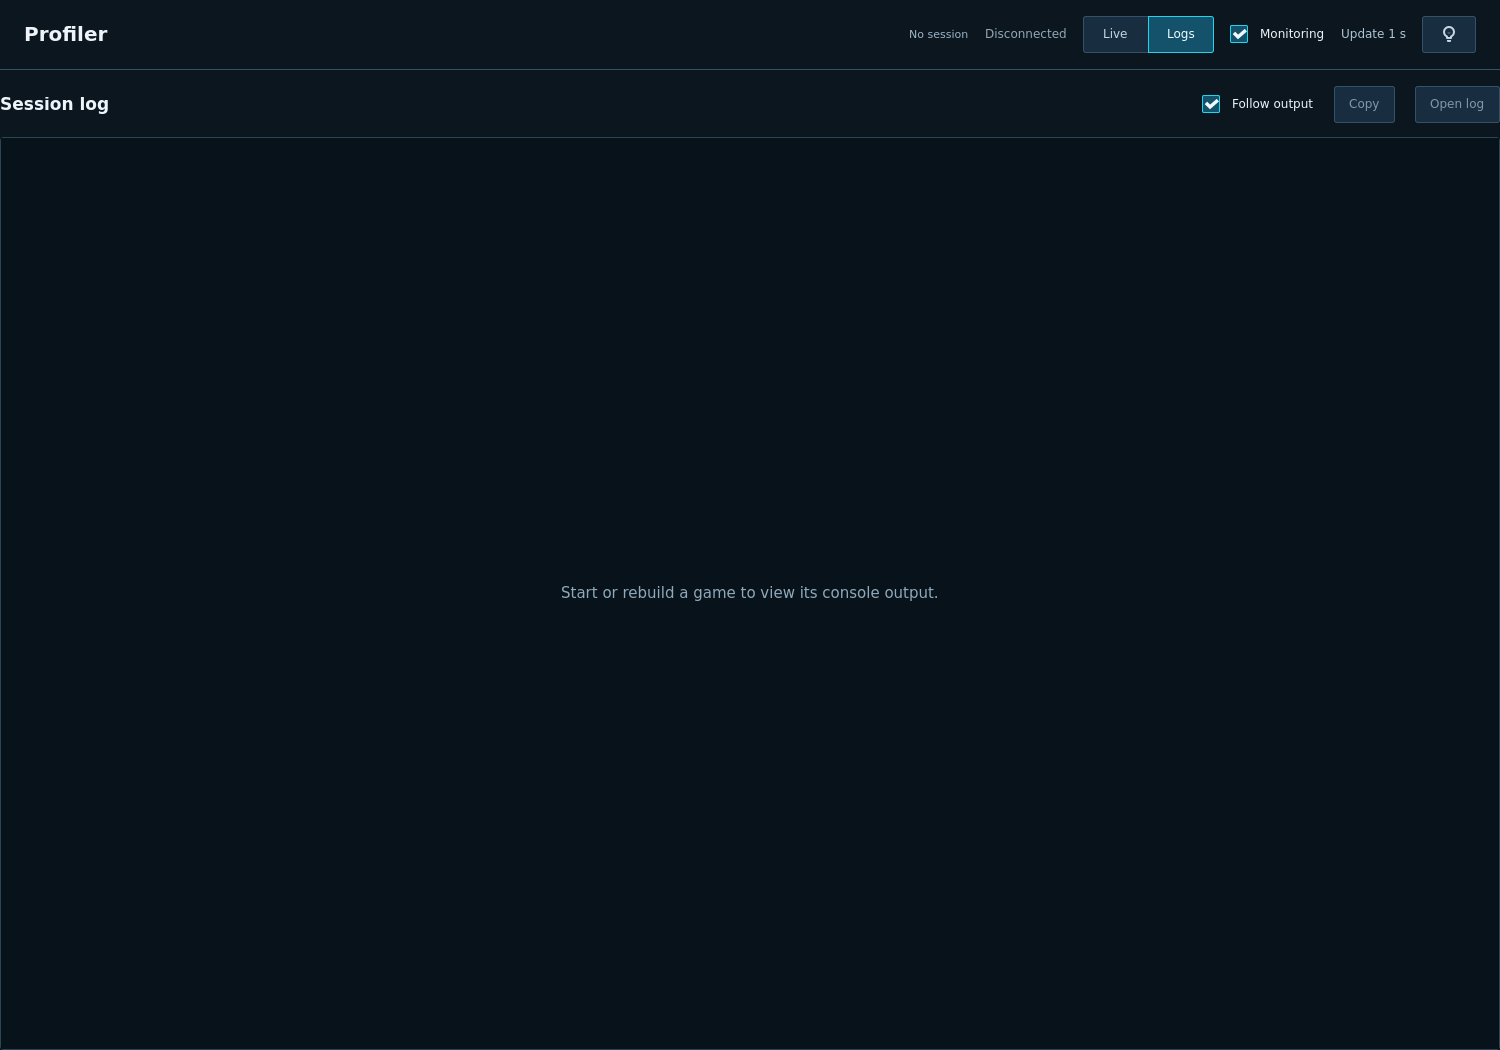
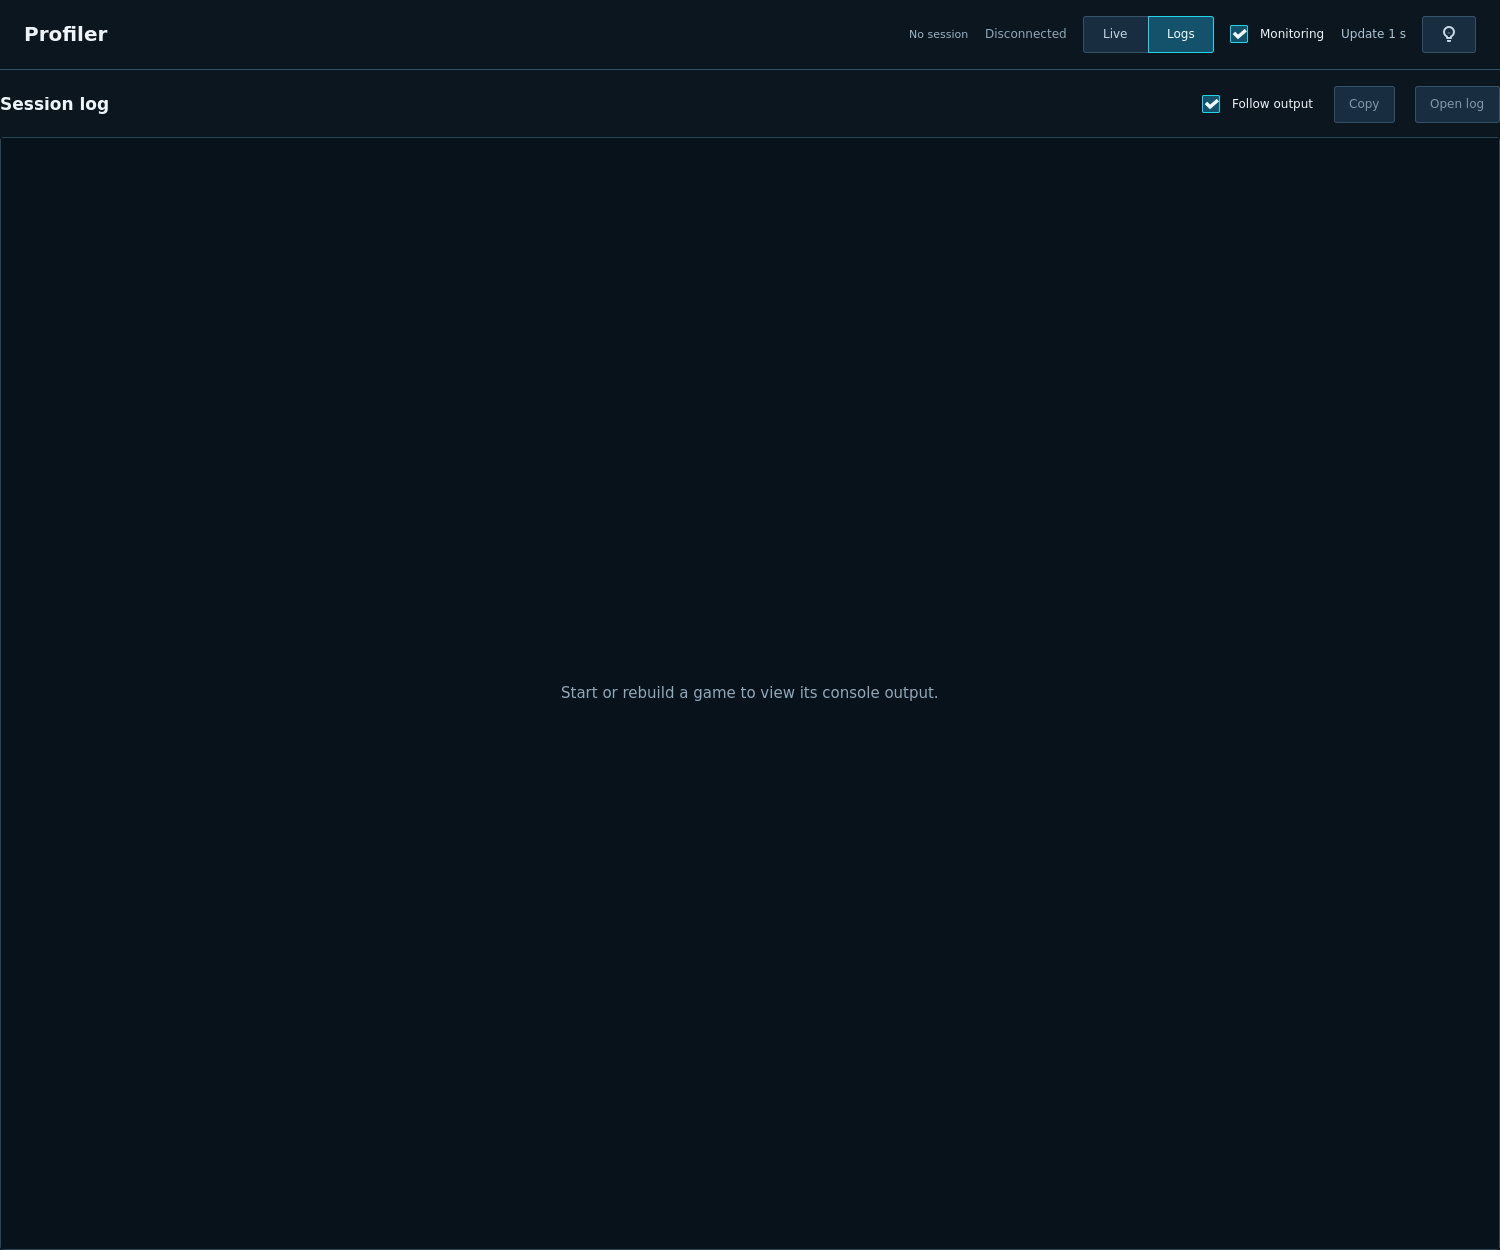
fix(ui): preserve the selected segment divider border

diff --git a/assets/ui/style.css b/assets/ui/style.css
@@ -108,7 +108,9 @@ button { box-shadow: none; text-shadow: none; }
 
 .chart-header-overlay { background: #102332; }
 .profiler-page .segmented-control button { border-radius: 0; min-width: 40px; padding: 5px 12px; }
-.profiler-page .segmented-control button:first-child { border-radius: 3px 0 0 3px; }
-.profiler-page .segmented-control button:last-child { border-radius: 0 3px 3px 0; margin-left: -1px; }
+/* The second button owns the shared divider; no overlapping borders. */
+.profiler-page .segmented-control button:first-child { border-radius: 3px 0 0 3px; border-right-width: 0; }
+.profiler-page .segmented-control button:last-child { border-radius: 0 3px 3px 0; }
 .profiler-page .segmented-control button:checked { background: #14516a; border-color: #24d4eb; color: #effbff; }
+.profiler-page .segmented-control button:checked + button { border-left-color: #24d4eb; }
 .profiler-page .segmented-control button:focus-visible { outline: 2px solid #a1e9f3; outline-offset: -3px; }

diff --git a/docs/profiler-design-review.md b/docs/profiler-design-review.md
@@ -35,7 +35,7 @@ Cards use 16 px internal padding and 16 px section/column gaps. Shader work and 
 
 ## Verification
 
-Live/Logs reuses the chart segmented control. Native mouse clicks verify switching to Logs and returning to Live while preserving chart mode. The chart drawing area is 190 px high and the FPS axis is fixed at 0–75 with labels at 13, 30 and 60 and a brighter bold unit label; interval mode still scales automatically.
+Live/Logs reuses the chart segmented control. The shared divider is drawn once and follows the selected side; screenshots verify complete outlines for both left and right selection. Native mouse clicks verify switching to Logs and returning to Live while preserving chart mode. The chart drawing area is 190 px high and the FPS axis is fixed at 0–75 with labels at 13, 30 and 60 and a brighter bold unit label; interval mode still scales automatically.
 
 The revised controls were inspected at 1500 × 1250 and 1100 × 850. Both mode captions remain readable with a ten-digit frame ID and a three-digit worst interval. Native toggling confirms mutual exclusion and redraw in both modes. Follow live and Monitoring were checked on and off; the indicator allocation is 16 × 16 without inherited theme padding. Disabled controls remain distinct from enabled options. Narrow layouts stack the resource column; scrolling exposes the complete shader/memory cards without horizontal overflow. The top strip contains only the four metrics; sample counts, coverage and observation-window state sit in the bottom status row, verified in wide and scrolled narrow layouts. All dashboard card containers share one factory and CSS class, 16 px padding/gaps and 4 px corners. Theme-independent button foregrounds are explicit.
 
